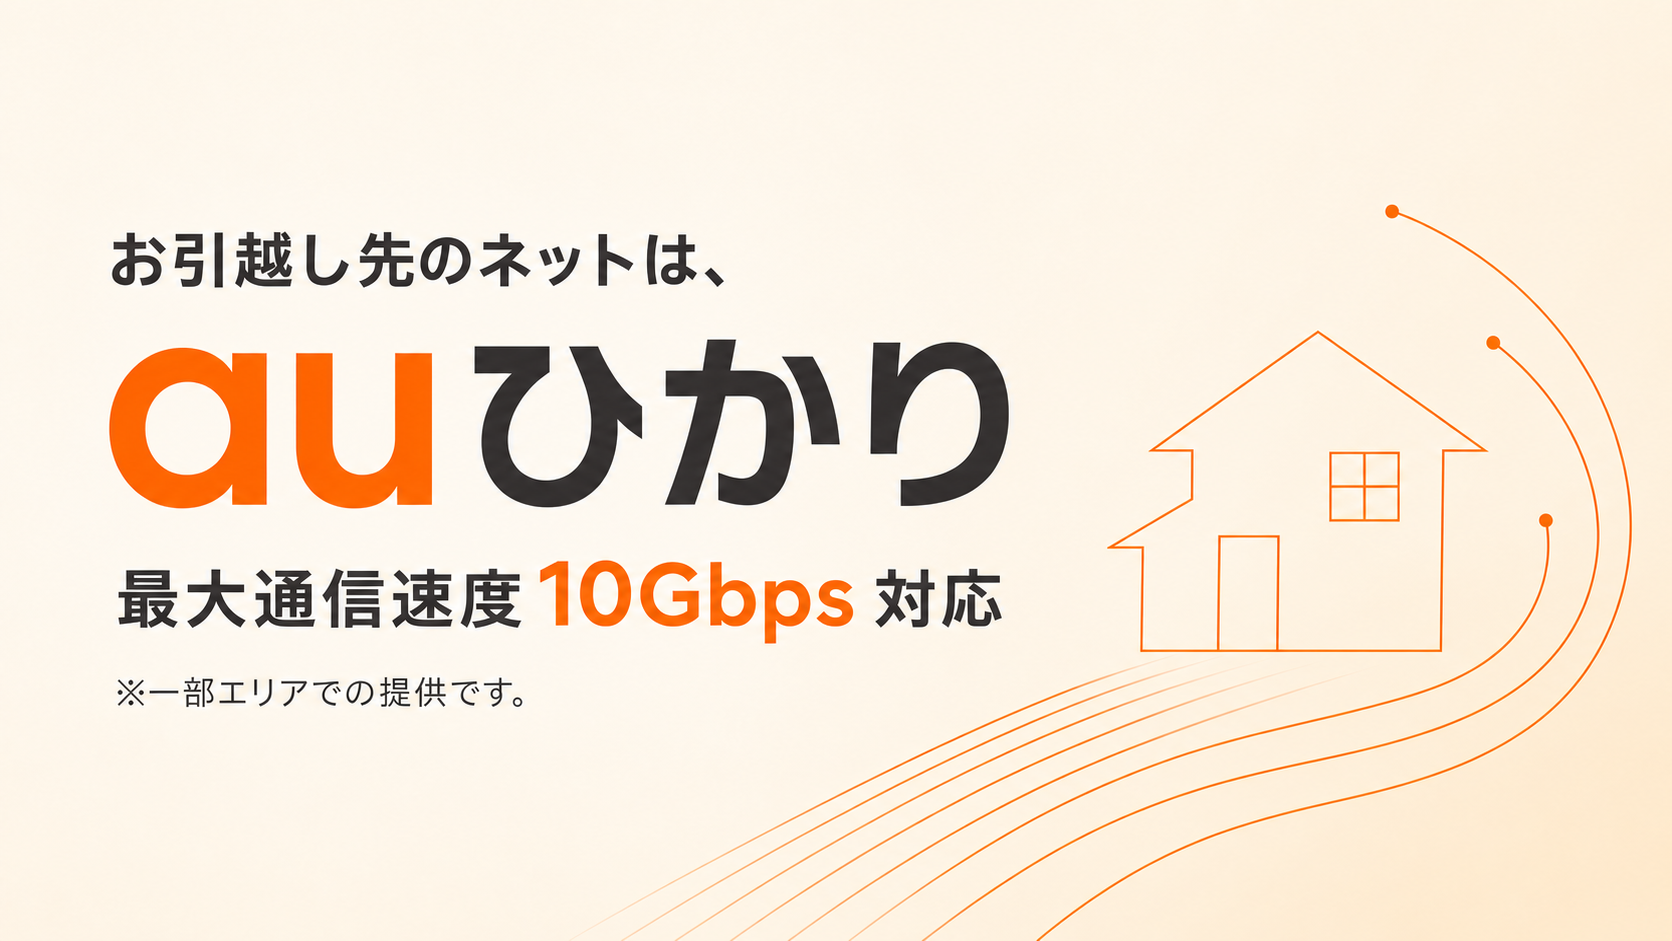
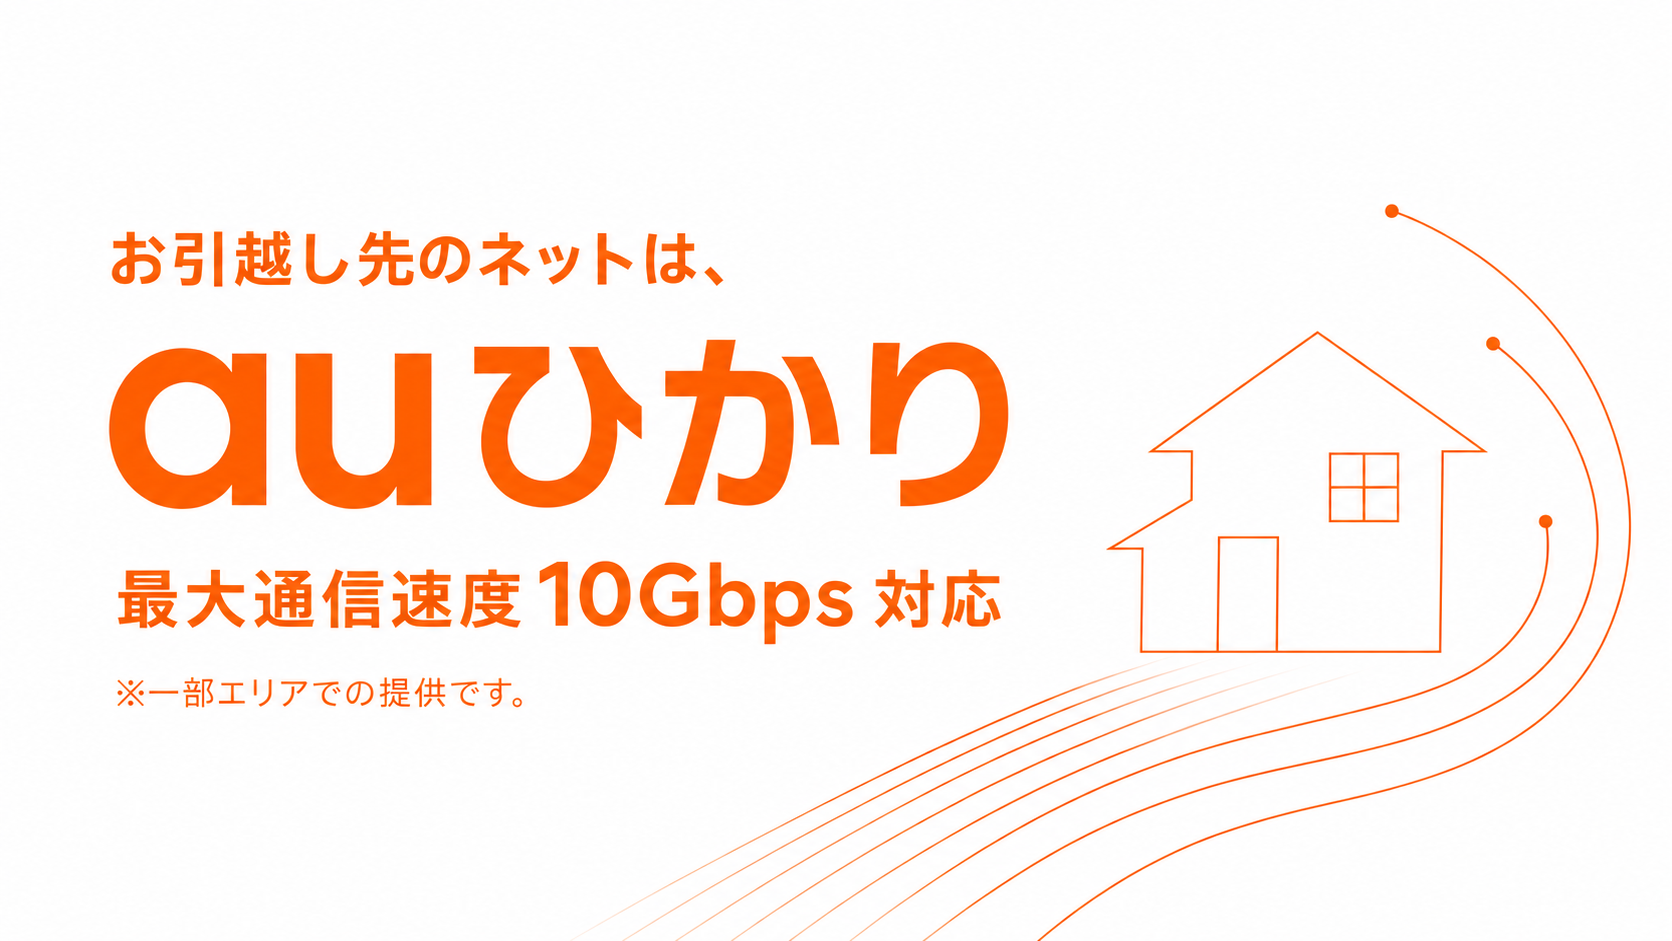
Limit pattern 2 palette to white and orange

diff --git a/styles.css b/styles.css
@@ -394,30 +394,30 @@ input:focus, textarea:focus, select:focus { outline: 3px solid rgba(235,85,5,.16
   .sticky-cta b { font-size: 11px; }
 }
 
-/* Pattern 2: warm white, orange and charcoal; intentionally no navy or blue */
+/* Pattern 2: white and orange only */
 html[data-theme="pattern2"] {
   --orange: #f36a21;
   --orange-light: #ff944d;
-  --indigo: #4a352b;
-  --indigo-dark: #2a1c16;
+  --indigo: #e8560b;
+  --indigo-dark: #c94100;
   --cream: #fff6ef;
-  --ink: #302823;
-  --muted: #746862;
-  --line: #eadfd7;
-  --shadow: 0 18px 48px rgba(76, 45, 26, .16);
+  --ink: #b83a00;
+  --muted: #cc622b;
+  --line: #ffd6bf;
+  --shadow: 0 18px 48px rgba(218, 77, 0, .16);
   background: #fffaf6;
 }
 html[data-theme="pattern2"] .lp-body { background: #fffaf6; }
-html[data-theme="pattern2"] .operator-bar { color: #fff3eb; border-bottom-color: rgba(255,255,255,.14); background: #3b2a22; }
-html[data-theme="pattern2"] .site-header { border-bottom: 4px solid var(--orange); box-shadow: 0 8px 22px rgba(76,45,26,.15); }
+html[data-theme="pattern2"] .operator-bar { color: #fff; border-bottom-color: rgba(255,255,255,.22); background: #e8560b; }
+html[data-theme="pattern2"] .site-header { border-bottom: 4px solid var(--orange); box-shadow: 0 8px 22px rgba(218,77,0,.15); }
 html[data-theme="pattern2"] .brand strong { color: var(--indigo-dark); }
 html[data-theme="pattern2"] .header-apply { background: linear-gradient(110deg, var(--orange), var(--orange-light)); }
 html[data-theme="pattern2"] .hero-pattern1 { display: none; }
 html[data-theme="pattern2"] .hero-pattern2 { display: block !important; }
 html[data-theme="pattern2"] .hero-new { padding-bottom: 28px; background: #fffaf6; }
-html[data-theme="pattern2"] .hero-banner { border: 2px solid #ffe0cc; background: #fff8ef; box-shadow: 0 24px 58px rgba(103,56,25,.16); }
+html[data-theme="pattern2"] .hero-banner { border: 2px solid #ffe0cc; background: #fff8ef; box-shadow: 0 24px 58px rgba(218,77,0,.14); }
 html[data-theme="pattern2"] .quick-contact { padding-top: 0; background: #fffaf6; }
-html[data-theme="pattern2"] .contact-choice { border: 1px solid #ffe0cc; border-top: 6px solid var(--orange); box-shadow: 0 22px 52px rgba(103,56,25,.14); }
+html[data-theme="pattern2"] .contact-choice { border: 1px solid #ffe0cc; border-top: 6px solid var(--orange); box-shadow: 0 22px 52px rgba(218,77,0,.13); }
 html[data-theme="pattern2"] .moving-support { background: #fffaf6; }
 html[data-theme="pattern2"] .moving-support-heading h2 { color: var(--ink); }
 html[data-theme="pattern2"] .moving-support-heading p { color: var(--muted); }
@@ -426,28 +426,34 @@ html[data-theme="pattern2"] .timing-notice { border-block: 0; background: #fff; 
 html[data-theme="pattern2"] .pricing { background: #fff0e5; }
 html[data-theme="pattern2"] .pricing h2 { color: var(--ink); }
 html[data-theme="pattern2"] .pricing .section-intro { color: var(--muted); }
-html[data-theme="pattern2"] .price-card { border-color: #f3d8c7; box-shadow: 0 18px 42px rgba(103,56,25,.14); }
+html[data-theme="pattern2"] .price-card { border-color: #ffd8c2; box-shadow: 0 18px 42px rgba(218,77,0,.13); }
 html[data-theme="pattern2"] .price-card-head { background: var(--indigo-dark); }
 html[data-theme="pattern2"] .price-card.featured .price-card-head { background: var(--orange); }
 html[data-theme="pattern2"] .building-illustration,
-html[data-theme="pattern2"] .phone-benefit .benefit-icon { filter: sepia(1) saturate(1.45) hue-rotate(332deg) brightness(.86); }
+html[data-theme="pattern2"] .phone-benefit .benefit-icon { filter: sepia(1) saturate(5) hue-rotate(338deg) brightness(1.02); }
 html[data-theme="pattern2"] .benefits { background: linear-gradient(180deg, #fff 0%, #fff 55%, #fff6ef 55%, #fff6ef 100%); }
-html[data-theme="pattern2"] .benefit-grid .benefit-banner { border-top-width: 5px; box-shadow: 0 14px 32px rgba(103,56,25,.1); }
-html[data-theme="pattern2"] .process { background: #3b2a22; }
+html[data-theme="pattern2"] .benefit-grid .benefit-banner { border-top-width: 5px; box-shadow: 0 14px 32px rgba(218,77,0,.09); }
+html[data-theme="pattern2"] .benefit-grid article > span { color: #ffe0cc; }
+html[data-theme="pattern2"] .process { background: #e8560b; }
 html[data-theme="pattern2"] .process-grid article { border: 1px solid rgba(255,255,255,.13); border-top: 4px solid var(--orange); background: rgba(255,255,255,.07); }
-html[data-theme="pattern2"] .process-grid p { color: #f3e5dc; }
+html[data-theme="pattern2"] .process-grid p { color: #fff; }
 html[data-theme="pattern2"] .faq { background: #fff6ef; }
 html[data-theme="pattern2"] .faq h2 { color: var(--ink); }
-html[data-theme="pattern2"] .faq details { border-color: #f1ded1; box-shadow: 0 8px 22px rgba(103,56,25,.09); }
+html[data-theme="pattern2"] .faq details { border-color: #ffdcc7; box-shadow: 0 8px 22px rgba(218,77,0,.08); }
 html[data-theme="pattern2"] .apply { background: linear-gradient(140deg, #dc4d08, var(--orange-light)); }
 html[data-theme="pattern2"] .apply .section-kicker { color: #fff3eb; }
 html[data-theme="pattern2"] .apply-heading > p:last-child { color: #fff; }
 html[data-theme="pattern2"] .contact-form { box-shadow: 0 24px 58px rgba(71,25,0,.24); }
-html[data-theme="pattern2"] .company { color: #fff; background: #3b2a22; }
+html[data-theme="pattern2"] input,
+html[data-theme="pattern2"] textarea,
+html[data-theme="pattern2"] select { color: #b83a00; border-color: #ffc7a7; background: #fffaf6; }
+html[data-theme="pattern2"] input::placeholder,
+html[data-theme="pattern2"] textarea::placeholder { color: #dc885c; }
+html[data-theme="pattern2"] .company { color: #fff; background: #e8560b; }
 html[data-theme="pattern2"] .company-links a { color: #fff; }
-html[data-theme="pattern2"] .disclaimer { color: #eaded7; }
-html[data-theme="pattern2"] .site-footer { color: #e6d7cf; border-top: 1px solid rgba(255,255,255,.1); background: #211713; }
-html[data-theme="pattern2"] .sticky-phone { color: #fff; background: #3b2a22; }
+html[data-theme="pattern2"] .disclaimer { color: #fff4ed; }
+html[data-theme="pattern2"] .site-footer { color: #fff; border-top: 1px solid rgba(255,255,255,.18); background: #c94100; }
+html[data-theme="pattern2"] .sticky-phone { color: #c94100; background: #fff; }
 html[data-theme="pattern2"] .sticky-web { background: linear-gradient(120deg, var(--orange), var(--orange-light)); }
 html[data-theme="pattern2"] .thanks-page { background: #fff6ef; }
 html[data-theme="pattern2"] .thanks-card { border-top: 6px solid var(--orange); }

diff --git a/index.html b/index.html
@@ -6,7 +6,7 @@
   <meta name="description" content="新居のインターネットにauひかり。提供エリアの確認から新規お申し込み、開通まで株式会社HTコネクションがご案内します。">
   <title>新居のインターネットにauひかり｜株式会社HTコネクション</title>
   <script>if (new URLSearchParams(location.search).get('pattern') === '2') document.documentElement.dataset.theme = 'pattern2';</script>
-  <link rel="stylesheet" href="styles.css?v=20260730-pattern2-warm-11">
+  <link rel="stylesheet" href="styles.css?v=20260730-pattern2-orange-12">
 </head>
 <body class="lp-body">
   <div class="operator-bar">
@@ -237,6 +237,6 @@
     <a class="sticky-phone" href="tel:0120911694"><small>受付 10:00〜19:00</small><b>☎ 電話でご相談</b></a>
     <a class="sticky-web" href="#apply"><small>24時間受付中</small><b>Webでお申し込み</b></a>
   </div>
-  <script src="script.js?v=20260730-pattern2-warm-11"></script>
+  <script src="script.js?v=20260730-pattern2-orange-12"></script>
 </body>
 </html>

diff --git a/thanks.html b/thanks.html
@@ -6,7 +6,7 @@
   <meta name="robots" content="noindex, nofollow">
   <title>お問い合わせありがとうございます｜auひかり</title>
   <script>if (new URLSearchParams(location.search).get('pattern') === '2') document.documentElement.dataset.theme = 'pattern2';</script>
-  <link rel="stylesheet" href="styles.css?v=20260730-pattern2-warm-11">
+  <link rel="stylesheet" href="styles.css?v=20260730-pattern2-orange-12">
 </head>
 <body class="subpage thanks-page">
   <div class="operator-bar">
